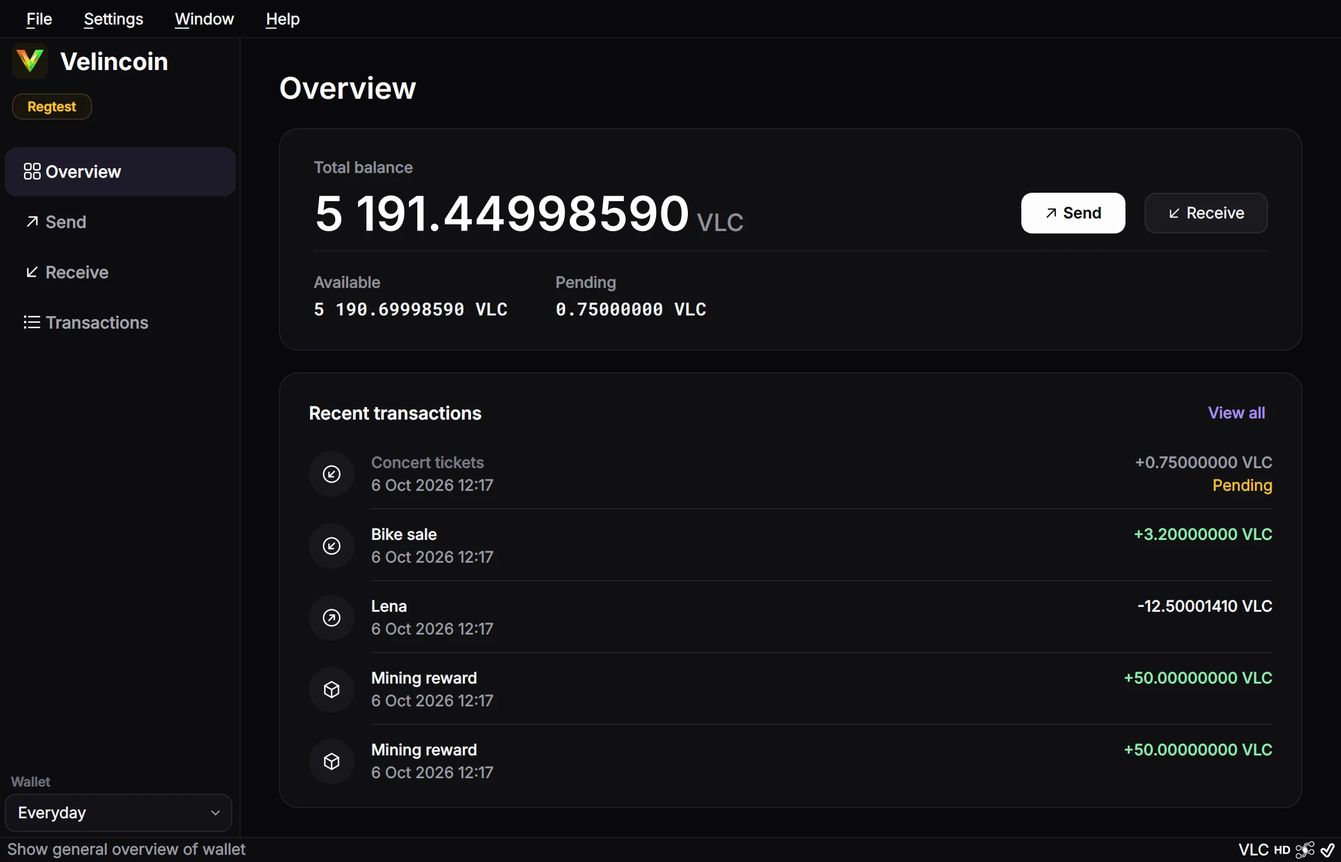
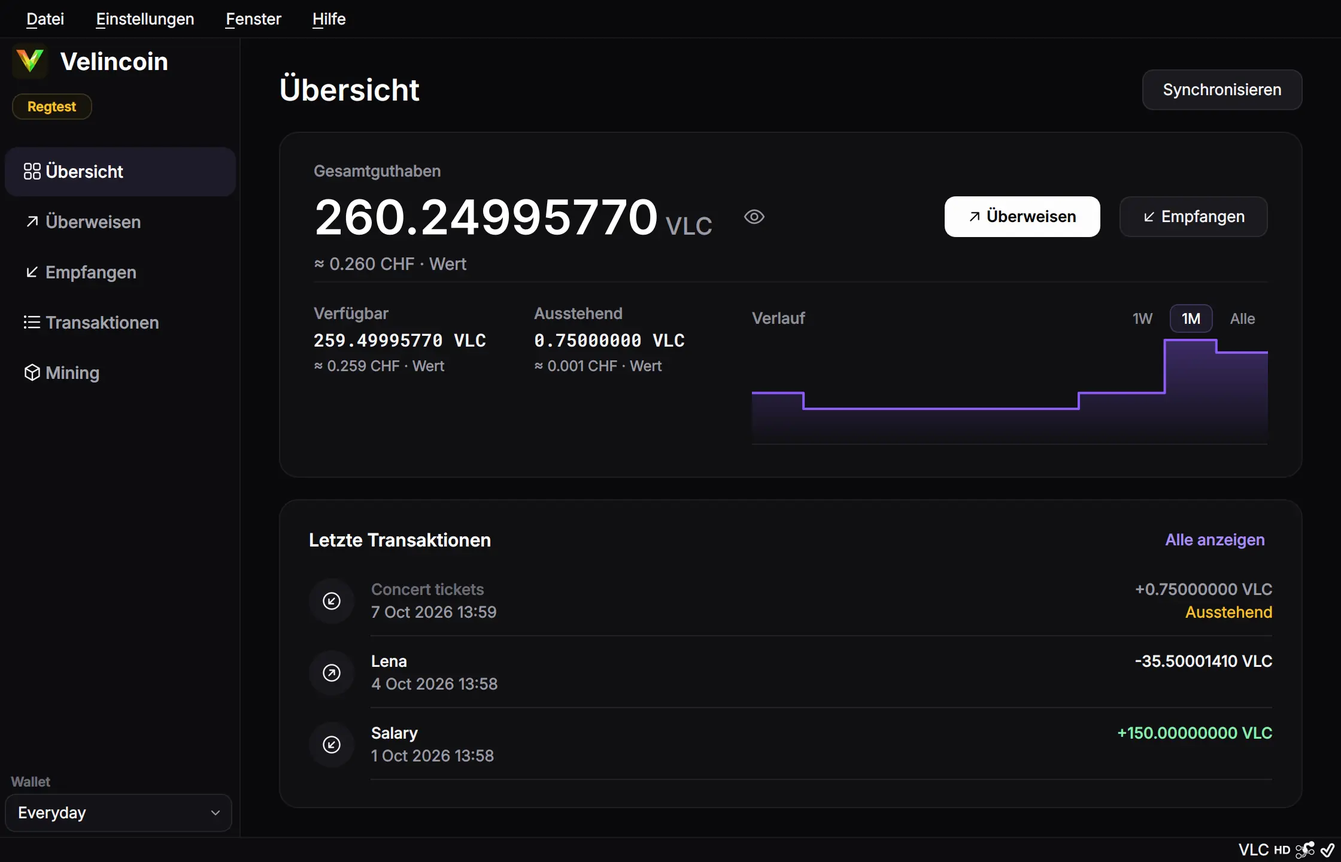
Website: new wallet features, mining with the button, live explorer
- Wallet section: six features (connects by itself, mining with one
  click, history and value in CHF, backup reminder, light or dark, the
  network in the sidebar) and a new real screenshot with the chart.
- Getting started: mining with the Mining button; the console command is
  folded away under "Lieber mit Befehlen?". Connecting needs no command
  anymore, a friend is added with Window → Add node.
- Live explorer on the server in the navigation, footer and FAQ; the
  explorer copy on the website updates every 20 minutes.
- FAQ: being behind and the Sync button, block time with one core, where
  to see all blocks, the old test coins after the restart.

Claude-Session: https://claude.ai/code/session_01KtpMX3uud5WYmzHoy9CveN

diff --git a/website/index.html b/website/index.html
@@ -20,7 +20,7 @@
 <script defer src="assets/js/site.js"></script>
 </head>
 <body>
-<svg xmlns="http://www.w3.org/2000/svg" style="display:none" aria-hidden="true"><symbol id="i-windows-logo" viewBox="0 0 256 256"><path d="M208,136H128a8,8,0,0,0-8,8v57.45a8,8,0,0,0,6.57,7.88l80,14.54A7.61,7.61,0,0,0,208,224a8,8,0,0,0,8-8V144A8,8,0,0,0,208,136Zm-8,70.41-64-11.63V152h64ZM96,136H32a8,8,0,0,0-8,8v40a8,8,0,0,0,6.57,7.87l64,11.64a8.54,8.54,0,0,0,1.43.13,8,8,0,0,0,8-8V144A8,8,0,0,0,96,136Zm-8,50.05-48-8.73V152H88ZM213.13,33.86a8,8,0,0,0-6.56-1.73l-80,14.55A8,8,0,0,0,120,54.55V112a8,8,0,0,0,8,8h80a8,8,0,0,0,8-8V40A8,8,0,0,0,213.13,33.86ZM200,104H136V61.22l64-11.63ZM101.13,54.22a8,8,0,0,0-6.56-1.73l-64,11.64A8,8,0,0,0,24,72v40a8,8,0,0,0,8,8H96a8,8,0,0,0,8-8V60.36A8,8,0,0,0,101.13,54.22ZM88,104H40V78.68L88,70Z"/></symbol><symbol id="i-download-simple" viewBox="0 0 256 256"><path d="M224,144v64a8,8,0,0,1-8,8H40a8,8,0,0,1-8-8V144a8,8,0,0,1,16,0v56H208V144a8,8,0,0,1,16,0Zm-101.66,5.66a8,8,0,0,0,11.32,0l40-40a8,8,0,0,0-11.32-11.32L136,124.69V32a8,8,0,0,0-16,0v92.69L93.66,98.34a8,8,0,0,0-11.32,11.32Z"/></symbol><symbol id="i-copy" viewBox="0 0 256 256"><path d="M216,32H88a8,8,0,0,0-8,8V80H40a8,8,0,0,0-8,8V216a8,8,0,0,0,8,8H168a8,8,0,0,0,8-8V176h40a8,8,0,0,0,8-8V40A8,8,0,0,0,216,32ZM160,208H48V96H160Zm48-48H176V88a8,8,0,0,0-8-8H96V48H208Z"/></symbol><symbol id="i-check" viewBox="0 0 256 256"><path d="M229.66,77.66l-128,128a8,8,0,0,1-11.32,0l-56-56a8,8,0,0,1,11.32-11.32L96,188.69,218.34,66.34a8,8,0,0,1,11.32,11.32Z"/></symbol><symbol id="i-arrow-right" viewBox="0 0 256 256"><path d="M221.66,133.66l-72,72a8,8,0,0,1-11.32-11.32L196.69,136H40a8,8,0,0,1,0-16H196.69L138.34,61.66a8,8,0,0,1,11.32-11.32l72,72A8,8,0,0,1,221.66,133.66Z"/></symbol><symbol id="i-caret-down" viewBox="0 0 256 256"><path d="M213.66,101.66l-80,80a8,8,0,0,1-11.32,0l-80-80A8,8,0,0,1,53.66,90.34L128,164.69l74.34-74.35a8,8,0,0,1,11.32,11.32Z"/></symbol><symbol id="i-terminal-window" viewBox="0 0 256 256"><path d="M128,128a8,8,0,0,1-3,6.25l-40,32a8,8,0,1,1-10-12.5L107.19,128,75,102.25a8,8,0,1,1,10-12.5l40,32A8,8,0,0,1,128,128Zm48,24H136a8,8,0,0,0,0,16h40a8,8,0,0,0,0-16Zm56-96V200a16,16,0,0,1-16,16H40a16,16,0,0,1-16-16V56A16,16,0,0,1,40,40H216A16,16,0,0,1,232,56ZM216,200V56H40V200H216Z"/></symbol><symbol id="i-shield-check" viewBox="0 0 256 256"><path d="M208,40H48A16,16,0,0,0,32,56v56c0,52.72,25.52,84.67,46.93,102.19,23.06,18.86,46,25.26,47,25.53a8,8,0,0,0,4.2,0c1-.27,23.91-6.67,47-25.53C198.48,196.67,224,164.72,224,112V56A16,16,0,0,0,208,40Zm0,72c0,37.07-13.66,67.16-40.6,89.42A129.3,129.3,0,0,1,128,223.62a128.25,128.25,0,0,1-38.92-21.81C61.82,179.51,48,149.3,48,112l0-56,160,0ZM82.34,141.66a8,8,0,0,1,11.32-11.32L112,148.69l50.34-50.35a8,8,0,0,1,11.32,11.32l-56,56a8,8,0,0,1-11.32,0Z"/></symbol><symbol id="i-qr-code" viewBox="0 0 256 256"><path d="M104,40H56A16,16,0,0,0,40,56v48a16,16,0,0,0,16,16h48a16,16,0,0,0,16-16V56A16,16,0,0,0,104,40Zm0,64H56V56h48v48Zm0,32H56a16,16,0,0,0-16,16v48a16,16,0,0,0,16,16h48a16,16,0,0,0,16-16V152A16,16,0,0,0,104,136Zm0,64H56V152h48v48ZM200,40H152a16,16,0,0,0-16,16v48a16,16,0,0,0,16,16h48a16,16,0,0,0,16-16V56A16,16,0,0,0,200,40Zm0,64H152V56h48v48Zm-64,72V144a8,8,0,0,1,16,0v32a8,8,0,0,1-16,0Zm80-16a8,8,0,0,1-8,8H184v40a8,8,0,0,1-8,8H144a8,8,0,0,1,0-16h24V144a8,8,0,0,1,16,0v8h24A8,8,0,0,1,216,160Zm0,32v16a8,8,0,0,1-16,0V192a8,8,0,0,1,16,0Z"/></symbol><symbol id="i-plugs-connected" viewBox="0 0 256 256"><path d="M237.66,18.34a8,8,0,0,0-11.32,0l-52.4,52.41-5.37-5.38a32.05,32.05,0,0,0-45.26,0L100,88.69l-6.34-6.35A8,8,0,0,0,82.34,93.66L88.69,100,65.37,123.31a32,32,0,0,0,0,45.26l5.38,5.37-52.41,52.4a8,8,0,0,0,11.32,11.32l52.4-52.41,5.37,5.38a32,32,0,0,0,45.26,0L156,167.31l6.34,6.35a8,8,0,0,0,11.32-11.32L167.31,156l23.32-23.31a32,32,0,0,0,0-45.26l-5.38-5.37,52.41-52.4A8,8,0,0,0,237.66,18.34Zm-116.29,161a16,16,0,0,1-22.62,0L76.69,157.25a16,16,0,0,1,0-22.62L100,111.31,144.69,156Zm57.94-57.94L156,144.69,111.31,100l23.32-23.31a16,16,0,0,1,22.62,0l22.06,22A16,16,0,0,1,179.31,121.37ZM88.57,35A8,8,0,0,1,103.43,29l8,20A8,8,0,0,1,96.57,55ZM24.57,93A8,8,0,0,1,35,88.57l20,8A8,8,0,0,1,49,111.43l-20-8A8,8,0,0,1,24.57,93ZM231.43,163a8,8,0,0,1-10.4,4.46l-20-8A8,8,0,1,1,207,144.57l20,8A8,8,0,0,1,231.43,163Zm-64,58.06A8,8,0,0,1,152.57,227l-8-20A8,8,0,0,1,159.43,201Z"/></symbol><symbol id="i-cube" viewBox="0 0 256 256"><path d="M223.68,66.15,135.68,18h0a15.88,15.88,0,0,0-15.36,0l-88,48.17a16,16,0,0,0-8.32,14v95.64a16,16,0,0,0,8.32,14l88,48.17a15.88,15.88,0,0,0,15.36,0l88-48.17a16,16,0,0,0,8.32-14V80.18A16,16,0,0,0,223.68,66.15ZM128,32h0l80.34,44L128,120,47.66,76ZM40,90l80,43.78v85.79L40,175.82Zm96,129.57V133.82L216,90v85.78Z"/></symbol><symbol id="i-key" viewBox="0 0 256 256"><path d="M216.57,39.43A80,80,0,0,0,83.91,120.78L28.69,176A15.86,15.86,0,0,0,24,187.31V216a16,16,0,0,0,16,16H72a8,8,0,0,0,8-8V208H96a8,8,0,0,0,8-8V184h16a8,8,0,0,0,5.66-2.34l9.56-9.57A79.73,79.73,0,0,0,160,176h.1A80,80,0,0,0,216.57,39.43ZM224,98.1c-1.09,34.09-29.75,61.86-63.89,61.9H160a63.7,63.7,0,0,1-23.65-4.51,8,8,0,0,0-8.84,1.68L116.69,168H96a8,8,0,0,0-8,8v16H72a8,8,0,0,0-8,8v16H40V187.31l58.83-58.82a8,8,0,0,0,1.68-8.84A63.72,63.72,0,0,1,96,95.92c0-34.14,27.81-62.8,61.9-63.89A64,64,0,0,1,224,98.1ZM192,76a12,12,0,1,1-12-12A12,12,0,0,1,192,76Z"/></symbol><symbol id="i-hard-drives" viewBox="0 0 256 256"><path d="M208,136H48a16,16,0,0,0-16,16v48a16,16,0,0,0,16,16H208a16,16,0,0,0,16-16V152A16,16,0,0,0,208,136Zm0,64H48V152H208v48Zm0-160H48A16,16,0,0,0,32,56v48a16,16,0,0,0,16,16H208a16,16,0,0,0,16-16V56A16,16,0,0,0,208,40Zm0,64H48V56H208v48ZM192,80a12,12,0,1,1-12-12A12,12,0,0,1,192,80Zm0,96a12,12,0,1,1-12-12A12,12,0,0,1,192,176Z"/></symbol><symbol id="i-globe-simple" viewBox="0 0 256 256"><path d="M128,24h0A104,104,0,1,0,232,128,104.12,104.12,0,0,0,128,24Zm87.62,96H175.79C174,83.49,159.94,57.67,148.41,42.4A88.19,88.19,0,0,1,215.63,120ZM96.23,136h63.54c-2.31,41.61-22.23,67.11-31.77,77C118.45,203.1,98.54,177.6,96.23,136Zm0-16C98.54,78.39,118.46,52.89,128,43c9.55,9.93,29.46,35.43,31.77,77Zm11.36-77.6C96.06,57.67,82,83.49,80.21,120H40.37A88.19,88.19,0,0,1,107.59,42.4ZM40.37,136H80.21c1.82,36.51,15.85,62.33,27.38,77.6A88.19,88.19,0,0,1,40.37,136Zm108,77.6c11.53-15.27,25.56-41.09,27.38-77.6h39.84A88.19,88.19,0,0,1,148.41,213.6Z"/></symbol></svg>
+<svg xmlns="http://www.w3.org/2000/svg" style="display:none" aria-hidden="true"><symbol id="i-windows-logo" viewBox="0 0 256 256"><path d="M208,136H128a8,8,0,0,0-8,8v57.45a8,8,0,0,0,6.57,7.88l80,14.54A7.61,7.61,0,0,0,208,224a8,8,0,0,0,8-8V144A8,8,0,0,0,208,136Zm-8,70.41-64-11.63V152h64ZM96,136H32a8,8,0,0,0-8,8v40a8,8,0,0,0,6.57,7.87l64,11.64a8.54,8.54,0,0,0,1.43.13,8,8,0,0,0,8-8V144A8,8,0,0,0,96,136Zm-8,50.05-48-8.73V152H88ZM213.13,33.86a8,8,0,0,0-6.56-1.73l-80,14.55A8,8,0,0,0,120,54.55V112a8,8,0,0,0,8,8h80a8,8,0,0,0,8-8V40A8,8,0,0,0,213.13,33.86ZM200,104H136V61.22l64-11.63ZM101.13,54.22a8,8,0,0,0-6.56-1.73l-64,11.64A8,8,0,0,0,24,72v40a8,8,0,0,0,8,8H96a8,8,0,0,0,8-8V60.36A8,8,0,0,0,101.13,54.22ZM88,104H40V78.68L88,70Z"/></symbol><symbol id="i-download-simple" viewBox="0 0 256 256"><path d="M224,144v64a8,8,0,0,1-8,8H40a8,8,0,0,1-8-8V144a8,8,0,0,1,16,0v56H208V144a8,8,0,0,1,16,0Zm-101.66,5.66a8,8,0,0,0,11.32,0l40-40a8,8,0,0,0-11.32-11.32L136,124.69V32a8,8,0,0,0-16,0v92.69L93.66,98.34a8,8,0,0,0-11.32,11.32Z"/></symbol><symbol id="i-copy" viewBox="0 0 256 256"><path d="M216,32H88a8,8,0,0,0-8,8V80H40a8,8,0,0,0-8,8V216a8,8,0,0,0,8,8H168a8,8,0,0,0,8-8V176h40a8,8,0,0,0,8-8V40A8,8,0,0,0,216,32ZM160,208H48V96H160Zm48-48H176V88a8,8,0,0,0-8-8H96V48H208Z"/></symbol><symbol id="i-check" viewBox="0 0 256 256"><path d="M229.66,77.66l-128,128a8,8,0,0,1-11.32,0l-56-56a8,8,0,0,1,11.32-11.32L96,188.69,218.34,66.34a8,8,0,0,1,11.32,11.32Z"/></symbol><symbol id="i-arrow-right" viewBox="0 0 256 256"><path d="M221.66,133.66l-72,72a8,8,0,0,1-11.32-11.32L196.69,136H40a8,8,0,0,1,0-16H196.69L138.34,61.66a8,8,0,0,1,11.32-11.32l72,72A8,8,0,0,1,221.66,133.66Z"/></symbol><symbol id="i-caret-down" viewBox="0 0 256 256"><path d="M213.66,101.66l-80,80a8,8,0,0,1-11.32,0l-80-80A8,8,0,0,1,53.66,90.34L128,164.69l74.34-74.35a8,8,0,0,1,11.32,11.32Z"/></symbol><symbol id="i-terminal-window" viewBox="0 0 256 256"><path d="M128,128a8,8,0,0,1-3,6.25l-40,32a8,8,0,1,1-10-12.5L107.19,128,75,102.25a8,8,0,1,1,10-12.5l40,32A8,8,0,0,1,128,128Zm48,24H136a8,8,0,0,0,0,16h40a8,8,0,0,0,0-16Zm56-96V200a16,16,0,0,1-16,16H40a16,16,0,0,1-16-16V56A16,16,0,0,1,40,40H216A16,16,0,0,1,232,56ZM216,200V56H40V200H216Z"/></symbol><symbol id="i-shield-check" viewBox="0 0 256 256"><path d="M208,40H48A16,16,0,0,0,32,56v56c0,52.72,25.52,84.67,46.93,102.19,23.06,18.86,46,25.26,47,25.53a8,8,0,0,0,4.2,0c1-.27,23.91-6.67,47-25.53C198.48,196.67,224,164.72,224,112V56A16,16,0,0,0,208,40Zm0,72c0,37.07-13.66,67.16-40.6,89.42A129.3,129.3,0,0,1,128,223.62a128.25,128.25,0,0,1-38.92-21.81C61.82,179.51,48,149.3,48,112l0-56,160,0ZM82.34,141.66a8,8,0,0,1,11.32-11.32L112,148.69l50.34-50.35a8,8,0,0,1,11.32,11.32l-56,56a8,8,0,0,1-11.32,0Z"/></symbol><symbol id="i-qr-code" viewBox="0 0 256 256"><path d="M104,40H56A16,16,0,0,0,40,56v48a16,16,0,0,0,16,16h48a16,16,0,0,0,16-16V56A16,16,0,0,0,104,40Zm0,64H56V56h48v48Zm0,32H56a16,16,0,0,0-16,16v48a16,16,0,0,0,16,16h48a16,16,0,0,0,16-16V152A16,16,0,0,0,104,136Zm0,64H56V152h48v48ZM200,40H152a16,16,0,0,0-16,16v48a16,16,0,0,0,16,16h48a16,16,0,0,0,16-16V56A16,16,0,0,0,200,40Zm0,64H152V56h48v48Zm-64,72V144a8,8,0,0,1,16,0v32a8,8,0,0,1-16,0Zm80-16a8,8,0,0,1-8,8H184v40a8,8,0,0,1-8,8H144a8,8,0,0,1,0-16h24V144a8,8,0,0,1,16,0v8h24A8,8,0,0,1,216,160Zm0,32v16a8,8,0,0,1-16,0V192a8,8,0,0,1,16,0Z"/></symbol><symbol id="i-plugs-connected" viewBox="0 0 256 256"><path d="M237.66,18.34a8,8,0,0,0-11.32,0l-52.4,52.41-5.37-5.38a32.05,32.05,0,0,0-45.26,0L100,88.69l-6.34-6.35A8,8,0,0,0,82.34,93.66L88.69,100,65.37,123.31a32,32,0,0,0,0,45.26l5.38,5.37-52.41,52.4a8,8,0,0,0,11.32,11.32l52.4-52.41,5.37,5.38a32,32,0,0,0,45.26,0L156,167.31l6.34,6.35a8,8,0,0,0,11.32-11.32L167.31,156l23.32-23.31a32,32,0,0,0,0-45.26l-5.38-5.37,52.41-52.4A8,8,0,0,0,237.66,18.34Zm-116.29,161a16,16,0,0,1-22.62,0L76.69,157.25a16,16,0,0,1,0-22.62L100,111.31,144.69,156Zm57.94-57.94L156,144.69,111.31,100l23.32-23.31a16,16,0,0,1,22.62,0l22.06,22A16,16,0,0,1,179.31,121.37ZM88.57,35A8,8,0,0,1,103.43,29l8,20A8,8,0,0,1,96.57,55ZM24.57,93A8,8,0,0,1,35,88.57l20,8A8,8,0,0,1,49,111.43l-20-8A8,8,0,0,1,24.57,93ZM231.43,163a8,8,0,0,1-10.4,4.46l-20-8A8,8,0,1,1,207,144.57l20,8A8,8,0,0,1,231.43,163Zm-64,58.06A8,8,0,0,1,152.57,227l-8-20A8,8,0,0,1,159.43,201Z"/></symbol><symbol id="i-cube" viewBox="0 0 256 256"><path d="M223.68,66.15,135.68,18h0a15.88,15.88,0,0,0-15.36,0l-88,48.17a16,16,0,0,0-8.32,14v95.64a16,16,0,0,0,8.32,14l88,48.17a15.88,15.88,0,0,0,15.36,0l88-48.17a16,16,0,0,0,8.32-14V80.18A16,16,0,0,0,223.68,66.15ZM128,32h0l80.34,44L128,120,47.66,76ZM40,90l80,43.78v85.79L40,175.82Zm96,129.57V133.82L216,90v85.78Z"/></symbol><symbol id="i-key" viewBox="0 0 256 256"><path d="M216.57,39.43A80,80,0,0,0,83.91,120.78L28.69,176A15.86,15.86,0,0,0,24,187.31V216a16,16,0,0,0,16,16H72a8,8,0,0,0,8-8V208H96a8,8,0,0,0,8-8V184h16a8,8,0,0,0,5.66-2.34l9.56-9.57A79.73,79.73,0,0,0,160,176h.1A80,80,0,0,0,216.57,39.43ZM224,98.1c-1.09,34.09-29.75,61.86-63.89,61.9H160a63.7,63.7,0,0,1-23.65-4.51,8,8,0,0,0-8.84,1.68L116.69,168H96a8,8,0,0,0-8,8v16H72a8,8,0,0,0-8,8v16H40V187.31l58.83-58.82a8,8,0,0,0,1.68-8.84A63.72,63.72,0,0,1,96,95.92c0-34.14,27.81-62.8,61.9-63.89A64,64,0,0,1,224,98.1ZM192,76a12,12,0,1,1-12-12A12,12,0,0,1,192,76Z"/></symbol><symbol id="i-hard-drives" viewBox="0 0 256 256"><path d="M208,136H48a16,16,0,0,0-16,16v48a16,16,0,0,0,16,16H208a16,16,0,0,0,16-16V152A16,16,0,0,0,208,136Zm0,64H48V152H208v48Zm0-160H48A16,16,0,0,0,32,56v48a16,16,0,0,0,16,16H208a16,16,0,0,0,16-16V56A16,16,0,0,0,208,40Zm0,64H48V56H208v48ZM192,80a12,12,0,1,1-12-12A12,12,0,0,1,192,80Zm0,96a12,12,0,1,1-12-12A12,12,0,0,1,192,176Z"/></symbol><symbol id="i-globe-simple" viewBox="0 0 256 256"><path d="M128,24h0A104,104,0,1,0,232,128,104.12,104.12,0,0,0,128,24Zm87.62,96H175.79C174,83.49,159.94,57.67,148.41,42.4A88.19,88.19,0,0,1,215.63,120ZM96.23,136h63.54c-2.31,41.61-22.23,67.11-31.77,77C118.45,203.1,98.54,177.6,96.23,136Zm0-16C98.54,78.39,118.46,52.89,128,43c9.55,9.93,29.46,35.43,31.77,77Zm11.36-77.6C96.06,57.67,82,83.49,80.21,120H40.37A88.19,88.19,0,0,1,107.59,42.4ZM40.37,136H80.21c1.82,36.51,15.85,62.33,27.38,77.6A88.19,88.19,0,0,1,40.37,136Zm108,77.6c11.53-15.27,25.56-41.09,27.38-77.6h39.84A88.19,88.19,0,0,1,148.41,213.6Z"/></symbol><symbol id="i-chart-line-up" viewBox="0 0 256 256"><path d="M232,208a8,8,0,0,1-8,8H32a8,8,0,0,1-8-8V48a8,8,0,0,1,16,0V156.69l50.34-50.35a8,8,0,0,1,11.32,0L128,132.69,180.69,80H160a8,8,0,0,1,0-16h40a8,8,0,0,1,8,8v40a8,8,0,0,1-16,0V91.31l-58.34,58.35a8,8,0,0,1-11.32,0L96,123.31l-56,56V200H224A8,8,0,0,1,232,208Z"/></symbol><symbol id="i-floppy-disk" viewBox="0 0 256 256"><path d="M219.31,72,184,36.69A15.86,15.86,0,0,0,172.69,32H48A16,16,0,0,0,32,48V208a16,16,0,0,0,16,16H208a16,16,0,0,0,16-16V83.31A15.86,15.86,0,0,0,219.31,72ZM168,208H88V152h80Zm40,0H184V152a16,16,0,0,0-16-16H88a16,16,0,0,0-16,16v56H48V48H172.69L208,83.31ZM160,72a8,8,0,0,1-8,8H96a8,8,0,0,1,0-16h56A8,8,0,0,1,160,72Z"/></symbol><symbol id="i-circle-half" viewBox="0 0 256 256"><path d="M128,24A104,104,0,1,0,232,128,104.11,104.11,0,0,0,128,24Zm8,16.37a86.4,86.4,0,0,1,16,3V212.67a86.4,86.4,0,0,1-16,3Zm32,9.26a87.81,87.81,0,0,1,16,10.54V195.83a87.81,87.81,0,0,1-16,10.54ZM40,128a88.11,88.11,0,0,1,80-87.63V215.63A88.11,88.11,0,0,1,40,128Zm160,50.54V77.46a87.82,87.82,0,0,1,0,101.08Z"/></symbol><symbol id="i-magnifying-glass" viewBox="0 0 256 256"><path d="M229.66,218.34l-50.07-50.06a88.11,88.11,0,1,0-11.31,11.31l50.06,50.07a8,8,0,0,0,11.32-11.32ZM40,112a72,72,0,1,1,72,72A72.08,72.08,0,0,1,40,112Z"/></symbol></svg>
 <a class="skip" href="#main">Zum Inhalt springen</a>
 
 <header class="nav" id="nav">
@@ -35,6 +35,7 @@
       <a href="#start">Loslegen</a>
       <a href="#faq">Fragen</a>
       <a href="explorer/index.html">Explorer</a>
+      <a href="http://159.195.4.228/">Live-Explorer</a>
     </nav>
     <a class="btn btn-primary btn-sm" href="#download">
       <svg class="ico" aria-hidden="true"><use href="#i-download-simple"/></svg>Download
@@ -72,26 +73,41 @@
       <div class="shot-frame">
         <picture>
           <source srcset="assets/img/wallet-overview.webp" type="image/webp">
-          <img src="assets/img/wallet-overview.png" width="2240" height="1440" loading="lazy" decoding="async" alt="Übersicht von Velincoin Core: Gesamtguthaben von 5191.45 VLC, Knöpfe zum Senden und Empfangen und die letzten Transaktionen, darunter eine ausstehende Zahlung und zwei Mining-Belohnungen.">
+          <img src="assets/img/wallet-overview.png" width="2240" height="1440" loading="lazy" decoding="async" alt="Übersicht von Velincoin Core: Gesamtguthaben von 260.25 VLC mit dem Wert in Franken, ein Diagramm mit dem Verlauf des Kontostands über einen Monat, Knöpfe zum Überweisen und Empfangen und die letzten Transaktionen, darunter eine ausstehende Zahlung.">
         </picture>
       </div>
       <figcaption>Echter Screenshot von Velincoin Core mit Beispieldaten auf einer lokalen Testkette.</figcaption>
     </figure>
     <ul class="traits wrap" role="list">
       <li>
+        <svg class="ico ico-lg" aria-hidden="true"><use href="#i-plugs-connected"/></svg>
+        <h3>Verbindet sich von selbst</h3>
+        <p>Beim Start verbindet sich die Wallet mit dem Velincoin-Server, der rund um die Uhr läuft. Jeden Block prüft sie trotzdem selbst, niemand sonst meldet dir deinen Kontostand.</p>
+      </li>
+      <li>
+        <svg class="ico ico-lg" aria-hidden="true"><use href="#i-cube"/></svg>
+        <h3>Minen mit einem Klick</h3>
+        <p>Im Testnetz startest du das Mining mit dem Knopf <strong>Mining</strong> in der Seitenleiste, ganz ohne Befehle. Ein Block dauert etwa 1 bis 2 Minuten.</p>
+      </li>
+      <li>
+        <svg class="ico ico-lg" aria-hidden="true"><use href="#i-chart-line-up"/></svg>
+        <h3>Verlauf und Wert in Franken</h3>
+        <p>Ein Diagramm zeigt deinen Kontostand über eine Woche, einen Monat oder alles. Daneben steht ein fester Wert in CHF (1 VLC = 0.001 CHF), kein Marktpreis.</p>
+      </li>
+      <li>
+        <svg class="ico ico-lg" aria-hidden="true"><use href="#i-floppy-disk"/></svg>
+        <h3>Erinnert ans Backup</h3>
+        <p>Bis deine Wallet gesichert ist, erinnert dich die Übersicht daran. Ein Klick auf <strong>Jetzt sichern</strong> genügt.</p>
+      </li>
+      <li>
+        <svg class="ico ico-lg" aria-hidden="true"><use href="#i-circle-half"/></svg>
+        <h3>Hell oder dunkel</h3>
+        <p>Die Wallet gibt es in Dunkel und in Hell, umschaltbar unter <strong>Einstellungen</strong>, <strong>Optionen</strong>, <strong>Anzeige</strong>.</p>
+      </li>
+      <li>
         <svg class="ico ico-lg" aria-hidden="true"><use href="#i-globe-simple"/></svg>
         <h3>Zeigt immer das Netzwerk</h3>
         <p>Hauptnetz oder Testnetz steht in der Seitenleiste, damit sich Testcoins nie mit echten vermischen.</p>
-      </li>
-      <li>
-        <svg class="ico ico-lg" aria-hidden="true"><use href="#i-hard-drives"/></svg>
-        <h3>Kein Server dazwischen</h3>
-        <p>Die Wallet lädt die Blockchain selbst herunter und prüft sie. Niemand sonst meldet dir deinen Kontostand.</p>
-      </li>
-      <li>
-        <svg class="ico ico-lg" aria-hidden="true"><use href="#i-qr-code"/></svg>
-        <h3>Zahlungslinks und QR-Codes</h3>
-        <p>Fordere Coins mit einem <code>velincoin:</code>-Link oder einem QR-Code von der Seite Empfangen an.</p>
       </li>
     </ul>
   </section>
@@ -145,29 +161,28 @@
         </li>
         <li>
           <h3>Testnetz öffnen</h3>
-          <p>Starte <strong>Velincoin Core (testnet)</strong> im Startmenü. Testcoins haben keinen Wert, du kannst also alles ausprobieren.</p>
+          <p>Starte <strong>Velincoin Core (testnet)</strong> im Startmenü und erstelle eine Wallet. Testcoins haben keinen Wert, du kannst also alles ausprobieren.</p>
         </li>
         <li>
           <h3>Minen</h3>
-          <p>Öffne <strong>Fenster</strong> und dann <strong>Konsole</strong>. Hol dir eine Adresse und mine einen Block darauf:</p>
-          <div class="code">
-            <pre><code>getnewaddress
+          <p>Klicke links auf <strong>Mining</strong> und dann auf <strong>Mining starten</strong>. Die Seite zeigt, wie lange ein Block auf deinem Computer etwa dauert, und listet jeden gefundenen Block auf.</p>
+          <p class="note">Im Testnetz dauert ein Block etwa 1 bis 2 Minuten, jeder bringt 50 Test-VLC. Geminte Coins kannst du erst nach 100 weiteren Blöcken ausgeben.</p>
+          <details class="more">
+            <summary>Lieber mit Befehlen?</summary>
+            <p>Öffne <strong>Fenster</strong> und dann <strong>Konsole</strong>:</p>
+            <div class="code">
+              <pre><code>getnewaddress
 generatetoaddress 1 DEINE-ADRESSE 2000000000</code></pre>
-            <button class="copy" type="button" data-copy="generatetoaddress 1 DEINE-ADRESSE 2000000000" aria-label="Mining-Befehl kopieren">
-              <svg class="ico" aria-hidden="true"><use href="#i-copy"/></svg><span>Kopieren</span>
-            </button>
-          </div>
-          <p class="note">Im Testnetz dauert ein Block etwa 1 bis 2 Minuten. Geminte Coins kannst du erst nach 100 weiteren Blöcken ausgeben. Schreib deshalb 110 statt 1: Nach zwei bis drei Stunden sind deine ersten 500 Test-VLC frei.</p>
+              <button class="copy" type="button" data-copy="generatetoaddress 1 DEINE-ADRESSE 2000000000" aria-label="Mining-Befehl kopieren">
+                <svg class="ico" aria-hidden="true"><use href="#i-copy"/></svg><span>Kopieren</span>
+              </button>
+            </div>
+          </details>
         </li>
         <li>
-          <h3>Verbinden</h3>
-          <p>Mine zusammen mit allen anderen auf derselben Kette. Der Velincoin-Server läuft rund um die Uhr und verbindet alle Wallets. Gib in der Konsole ein:</p>
-          <div class="code">
-            <pre><code>addnode "159.195.4.228:29733" "add"</code></pre>
-            <button class="copy" type="button" data-copy='addnode "159.195.4.228:29733" "add"' aria-label="Verbindungsbefehl kopieren">
-              <svg class="ico" aria-hidden="true"><use href="#i-copy"/></svg><span>Kopieren</span>
-            </button>
-          </div>
+          <h3>Mitmachen</h3>
+          <p>Du musst nichts eingeben: Die Wallet verbindet sich beim Start von selbst mit dem Velincoin-Server. So minst du mit allen anderen auf derselben Kette. Jeden neuen Block siehst du im <a href="http://159.195.4.228/">Live-Explorer</a>.</p>
+          <p class="note">Einen Freund fügst du unter <strong>Fenster</strong>, <strong>Node hinzufügen</strong> mit seiner IP-Adresse dazu.</p>
         </li>
       </ol>
     </div>
@@ -224,11 +239,19 @@ generatetoaddress 1 DEINE-ADRESSE 2000000000</code></pre>
         </details>
         <details>
           <summary>Warum sagt meine Wallet, sie sei im Rückstand?<svg class="ico" aria-hidden="true"><use href="#i-caret-down"/></svg></summary>
-          <p>Die Wallet vergleicht den neuesten Block mit der Uhrzeit. Bis jemand einen neuen Block mined oder du dich mit jemandem verbindest, der neuere Blöcke hat, zeigt sie einen Rückstand an. Verbinde dich mit <code>addnode</code> und mine einen Block.</p>
+          <p>Die Wallet vergleicht den neuesten Block mit der Uhrzeit. Sie verbindet sich beim Start von selbst mit dem Velincoin-Server und holt die neuen Blöcke. Mit dem Knopf <strong>Synchronisieren</strong> auf der Übersicht geht es sofort. Hat eine Weile niemand gemined, zeigt sie trotzdem einen Rückstand an, bis der nächste Block kommt. Mine dann einfach selbst einen.</p>
         </details>
         <details>
           <summary>Wie lange dauert das Minen?<svg class="ico" aria-hidden="true"><use href="#i-caret-down"/></svg></summary>
-          <p>Im Testnetz etwa 1 bis 2 Minuten pro Block, denn es ist auf einen Block alle 90 Sekunden eingestellt. Im Hauptnetz braucht ein Prozessorkern für einen Block etwa 15 bis 20 Minuten. Die Konsole zeigt nichts an, bis ein Block gefunden ist. Antwortet sie mit <code>[]</code>, gib den Befehl einfach nochmals ein.</p>
+          <p>Im Testnetz etwa 1 bis 2 Minuten pro Block mit einem Prozessorkern, denn es ist auf einen Block alle 90 Sekunden eingestellt. Schneller als etwa eine Minute wird es mit einem Kern nicht. Im Hauptnetz braucht ein Prozessorkern für einen Block etwa 15 bis 20 Minuten. Die Mining-Seite zeigt die erwartete Zeit für deinen Computer an.</p>
+        </details>
+        <details>
+          <summary>Wo sehe ich alle Blöcke?<svg class="ico" aria-hidden="true"><use href="#i-caret-down"/></svg></summary>
+          <p>Im <a href="http://159.195.4.228/">Live-Explorer</a> auf dem Velincoin-Server. Er zeigt jeden neuen Block nach wenigen Sekunden. Der <a href="explorer/index.html">Explorer hier auf der Website</a> ist eine Kopie und wird alle 20 Minuten aktualisiert. In der Wallet öffnest du ihn unter <strong>Hilfe</strong>, <strong>Block Explorer öffnen</strong>.</p>
+        </details>
+        <details>
+          <summary>Wo sind meine alten Test-VLC?<svg class="ico" aria-hidden="true"><use href="#i-caret-down"/></svg></summary>
+          <p>Das Testnetz wurde am 7. Oktober 2026 neu gestartet, damit ein Block etwa 1 bis 2 Minuten dauert. Die Test-VLC aus dem alten Testnetz gibt es darum nicht mehr. Deine Wallets und Adressen bleiben: Die neue Version legt die alten Blöcke beim ersten Start zur Seite und lädt das neue Testnetz.</p>
         </details>
         <details>
           <summary>Gibt es eine Version für Mac oder Linux?<svg class="ico" aria-hidden="true"><use href="#i-caret-down"/></svg></summary>
@@ -253,6 +276,7 @@ generatetoaddress 1 DEINE-ADRESSE 2000000000</code></pre>
       <a href="#download">Download</a>
       <a href="#faq">Fragen</a>
       <a href="explorer/index.html">Explorer</a>
+      <a href="http://159.195.4.228/">Live-Explorer</a>
     </nav>
     <p class="footer-note">Velincoin ist in der Testphase, und VLC hat keinen Marktwert. Open Source unter der MIT-Lizenz.</p>
   </div>

diff --git a/website/assets/css/site.css b/website/assets/css/site.css
@@ -193,7 +193,7 @@ p { margin: 0; text-wrap: pretty; }
 
 .traits {
   list-style: none; margin-top: clamp(48px, 6vw, 72px); padding-top: 0;
-  display: grid; grid-template-columns: minmax(0, 1.15fr) minmax(0, 1fr) minmax(0, 1fr); gap: clamp(28px, 4vw, 56px);
+  display: grid; grid-template-columns: repeat(3, minmax(0, 1fr)); gap: clamp(28px, 4vw, 56px);
 }
 .traits li { display: grid; gap: 10px; align-content: start; padding-top: 24px; border-top: 1px solid var(--line); }
 .traits .ico { color: var(--accent-text); margin-bottom: 6px; }
@@ -252,6 +252,17 @@ p { margin: 0; text-wrap: pretty; }
 .rail li:last-child::after { display: none; }
 .rail h3 { font-size: 21px; letter-spacing: -0.015em; }
 .rail p { color: var(--dim); font-size: 16.5px; max-width: 54ch; }
+.rail a { color: var(--accent-text); }
+/* "Lieber mit Befehlen?": the console way, folded away under the button way */
+.more { display: grid; grid-template-columns: minmax(0, 1fr); gap: 12px; }
+.more summary {
+  cursor: pointer; list-style: none; width: fit-content; color: var(--accent-text);
+  font-size: 15px; font-weight: 500; touch-action: manipulation; user-select: none; -webkit-user-select: none;
+}
+.more summary::-webkit-details-marker { display: none; }
+.more summary::after { content: " +"; }
+.more[open] summary::after { content: " −"; }
+@media (hover: hover) and (pointer: fine) { .more summary:hover { color: var(--text); } }
 .rail strong { color: var(--text); font-weight: 600; }
 
 .code {
@@ -294,6 +305,7 @@ p { margin: 0; text-wrap: pretty; }
 .faq { border-top: 1px solid var(--line); padding-block: clamp(80px, 11vw, 150px); }
 .faq-wrap { display: grid; gap: clamp(32px, 4vw, 48px); max-width: 880px; }
 .faq-list details { border-bottom: 1px solid var(--line); }
+.faq-list p a { color: var(--accent-text); }
 .faq-list details:first-child { border-top: 1px solid var(--line); }
 .faq-list summary {
   list-style: none; cursor: pointer; display: flex; align-items: center; justify-content: space-between; gap: 24px;
